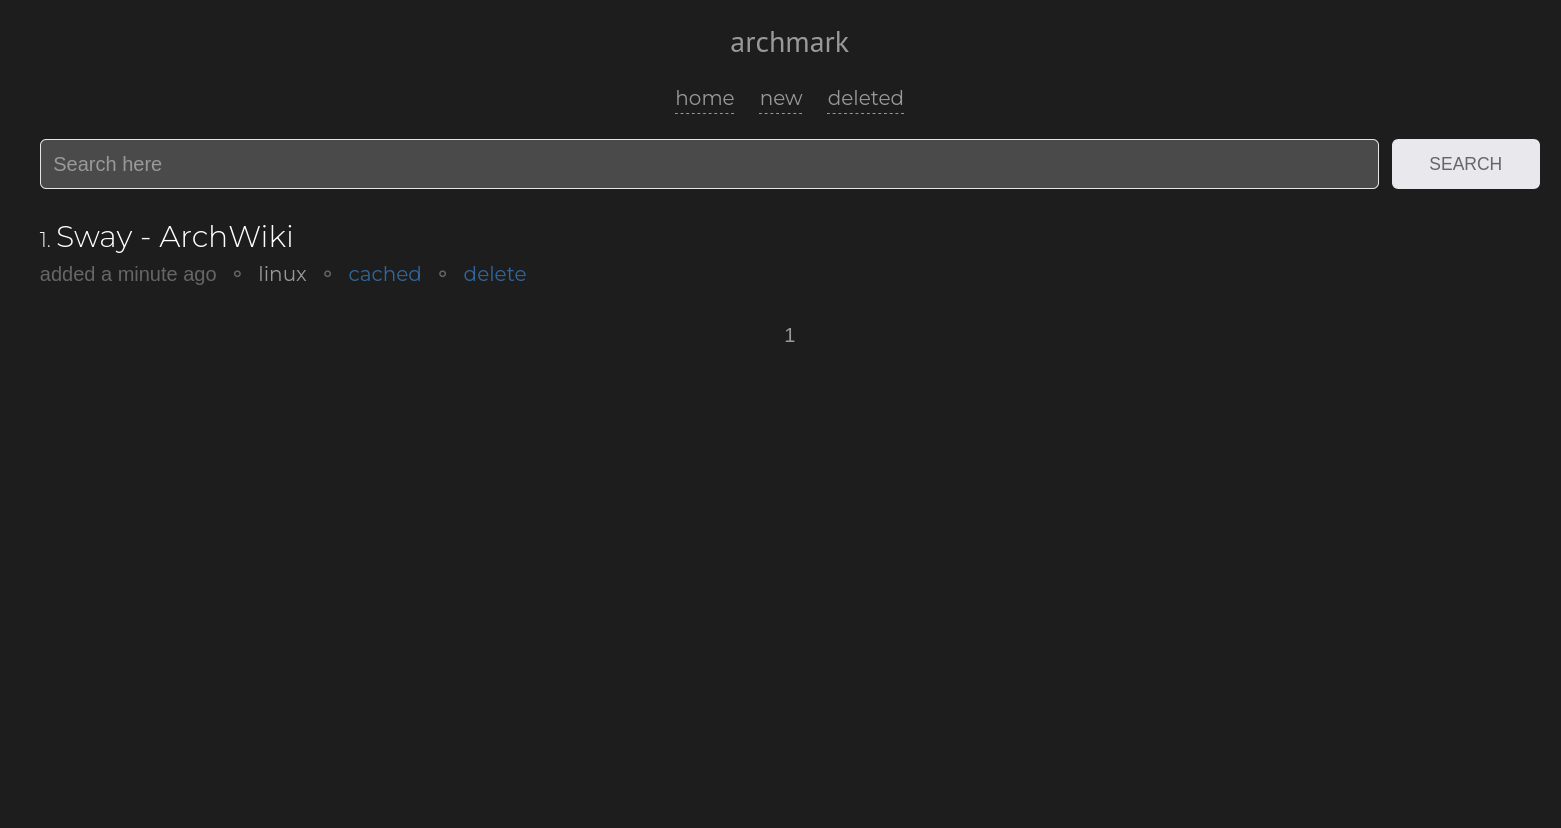
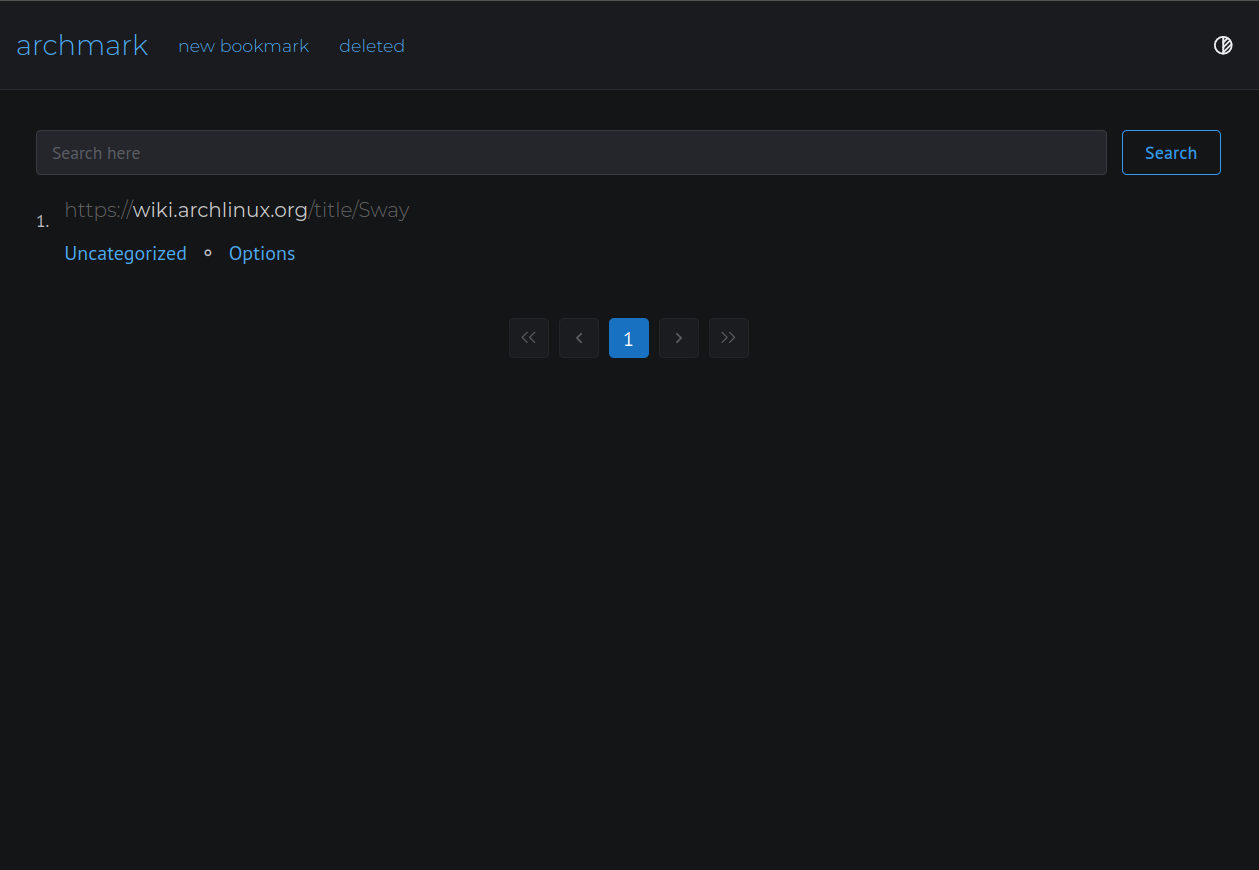
Updated screenshots

diff --git a/README.md b/README.md
@@ -60,6 +60,10 @@ Both the app and the worker are configured using environment variables.
 
 ![bookmarks](/docs/images/list.png)
 
+### Options
+
+![options](/docs/images/options.png)
+
 ### New bookmark
 
 ![new](/docs/images/new.png)
